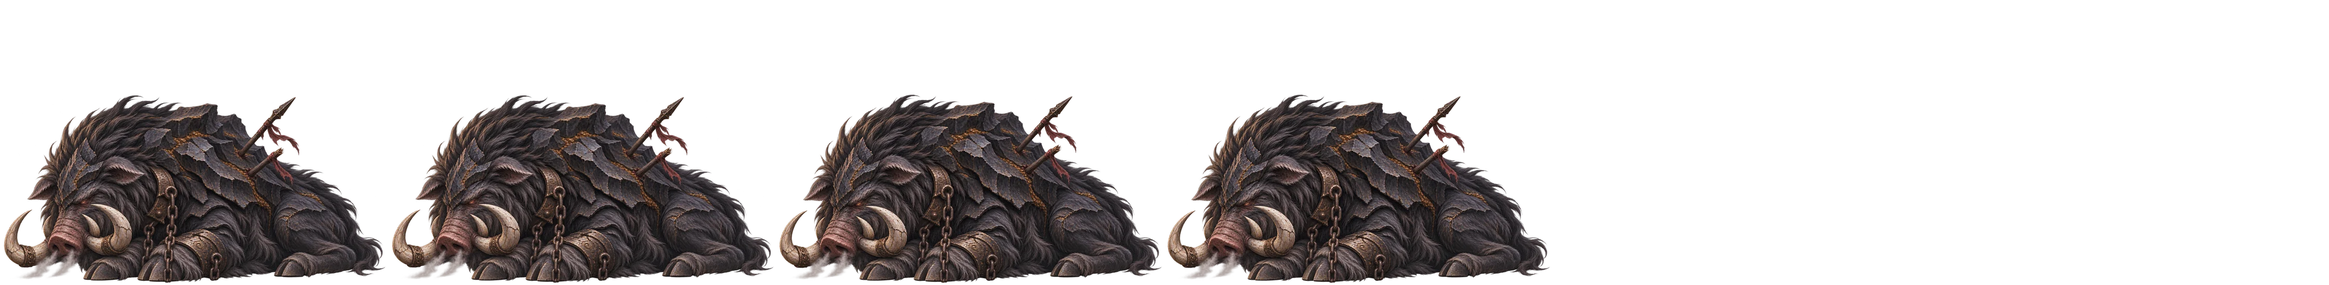
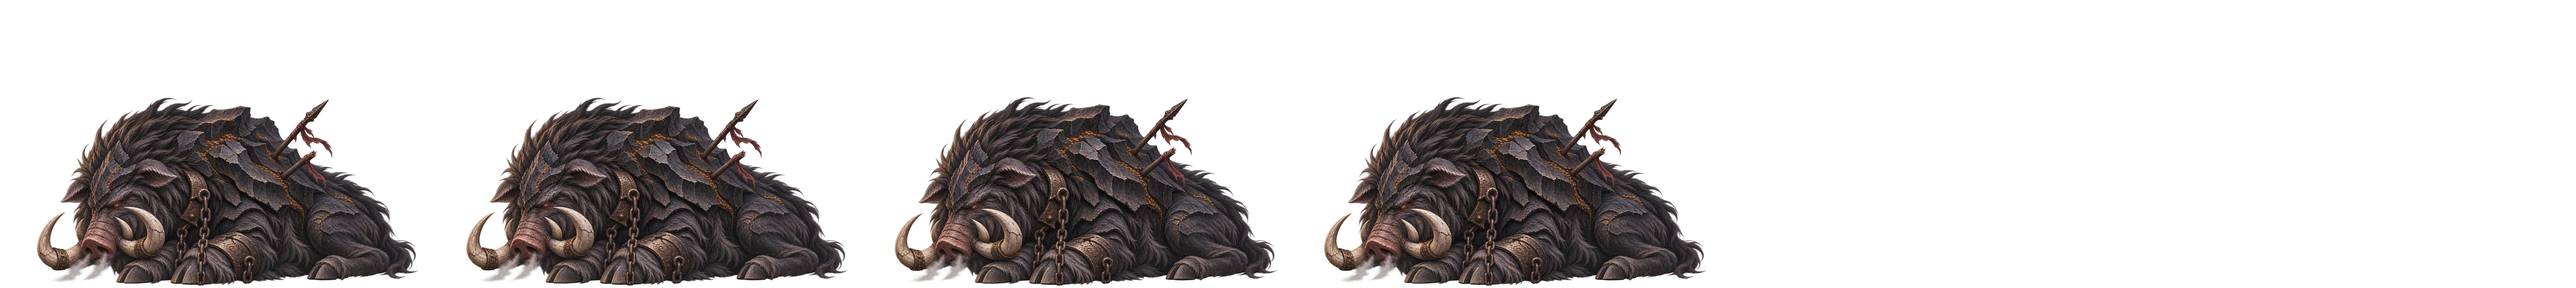
R378：猪王补上出手五帧；离火妖豹、镇岳犀王换成自己的本体（平时 / 蓄力 / 力竭三种姿势，出手帧等 Codex）；R377 其余四套光轮妖阵
Claude-Session: https://claude.ai/code/session_01MLmwgsq8MPeyfrTaz8BRE2

Changed region(s): [[0.0, 0.34, 0.6872, 0.9891]]

diff --git a/game/r378_meta.js b/game/r378_meta.js
@@ -1,2 +1,2 @@
 // R378 · 妖王本体图集的尺寸表（tools/r378_build.py 生成，别手改）
-window.R378_META = {"boar": {"main": {"idleEnd": 7, "impact": 8, "n": 8, "cols": 6, "fw": 747, "fh": 550, "footX": 375.7, "footY": 546.0, "fps": 12}, "h": 440.0, "bodyH": 430, "atk": false, "charge": {"idleEnd": 5, "impact": 6, "n": 6, "cols": 6, "fw": 747, "fh": 550, "footX": 375.7, "footY": 546.0, "fps": 12}, "break": {"idleEnd": 3, "impact": 4, "n": 4, "cols": 6, "fw": 747, "fh": 550, "footX": 375.7, "footY": 546.0, "fps": 12}}};
+window.R378_META = {"boar": {"main": {"idleEnd": 7, "impact": 15, "n": 26, "cols": 6, "fw": 826, "fh": 555, "footX": 439.3, "footY": 550.3, "fps": 12}, "h": 444.0, "bodyH": 430, "atk": true, "charge": {"idleEnd": 5, "impact": 6, "n": 6, "cols": 6, "fw": 826, "fh": 555, "footX": 439.3, "footY": 550.3, "fps": 12}, "break": {"idleEnd": 3, "impact": 4, "n": 4, "cols": 6, "fw": 826, "fh": 555, "footX": 439.3, "footY": 550.3, "fps": 12}}, "leopard": {"main": {"idleEnd": 7, "impact": 8, "n": 8, "cols": 6, "fw": 715, "fh": 512, "footX": 366.5, "footY": 507.8, "fps": 12}, "h": 409.6, "bodyH": 400, "atk": false, "charge": {"idleEnd": 5, "impact": 6, "n": 6, "cols": 6, "fw": 715, "fh": 512, "footX": 366.5, "footY": 507.8, "fps": 12}, "break": {"idleEnd": 3, "impact": 4, "n": 4, "cols": 6, "fw": 715, "fh": 512, "footX": 366.5, "footY": 507.8, "fps": 12}}, "rhino": {"main": {"idleEnd": 7, "impact": 8, "n": 8, "cols": 6, "fw": 848, "fh": 596, "footX": 447.9, "footY": 590.4, "fps": 12}, "h": 476.8, "bodyH": 450, "atk": false, "charge": {"idleEnd": 5, "impact": 6, "n": 6, "cols": 6, "fw": 848, "fh": 596, "footX": 447.9, "footY": 590.4, "fps": 12}, "break": {"idleEnd": 3, "impact": 4, "n": 4, "cols": 6, "fw": 848, "fh": 596, "footX": 447.9, "footY": 590.4, "fps": 12}}};

diff --git a/tools/r378_build.py b/tools/r378_build.py
@@ -33,7 +33,7 @@ def sheet(ims, cols, path, q=86):
     fw, fh = ims[0].size; rows = (len(ims) + cols - 1) // cols
     S = Image.new('RGBA', (fw * cols, fh * rows), (0, 0, 0, 0))
     for i, im in enumerate(ims): S.paste(im, ((i % cols) * fw, (i // cols) * fh))
-    S.save(path, 'WEBP', quality=q, method=6); return os.path.getsize(path)
+    S.save(path, 'WEBP', quality=q, method=4); return os.path.getsize(path)
 meta = {}
 if os.path.exists(META_JS):
     try: meta = json.loads(open(META_JS, encoding='utf8').read().split('=', 1)[1].rsplit(';', 1)[0])
